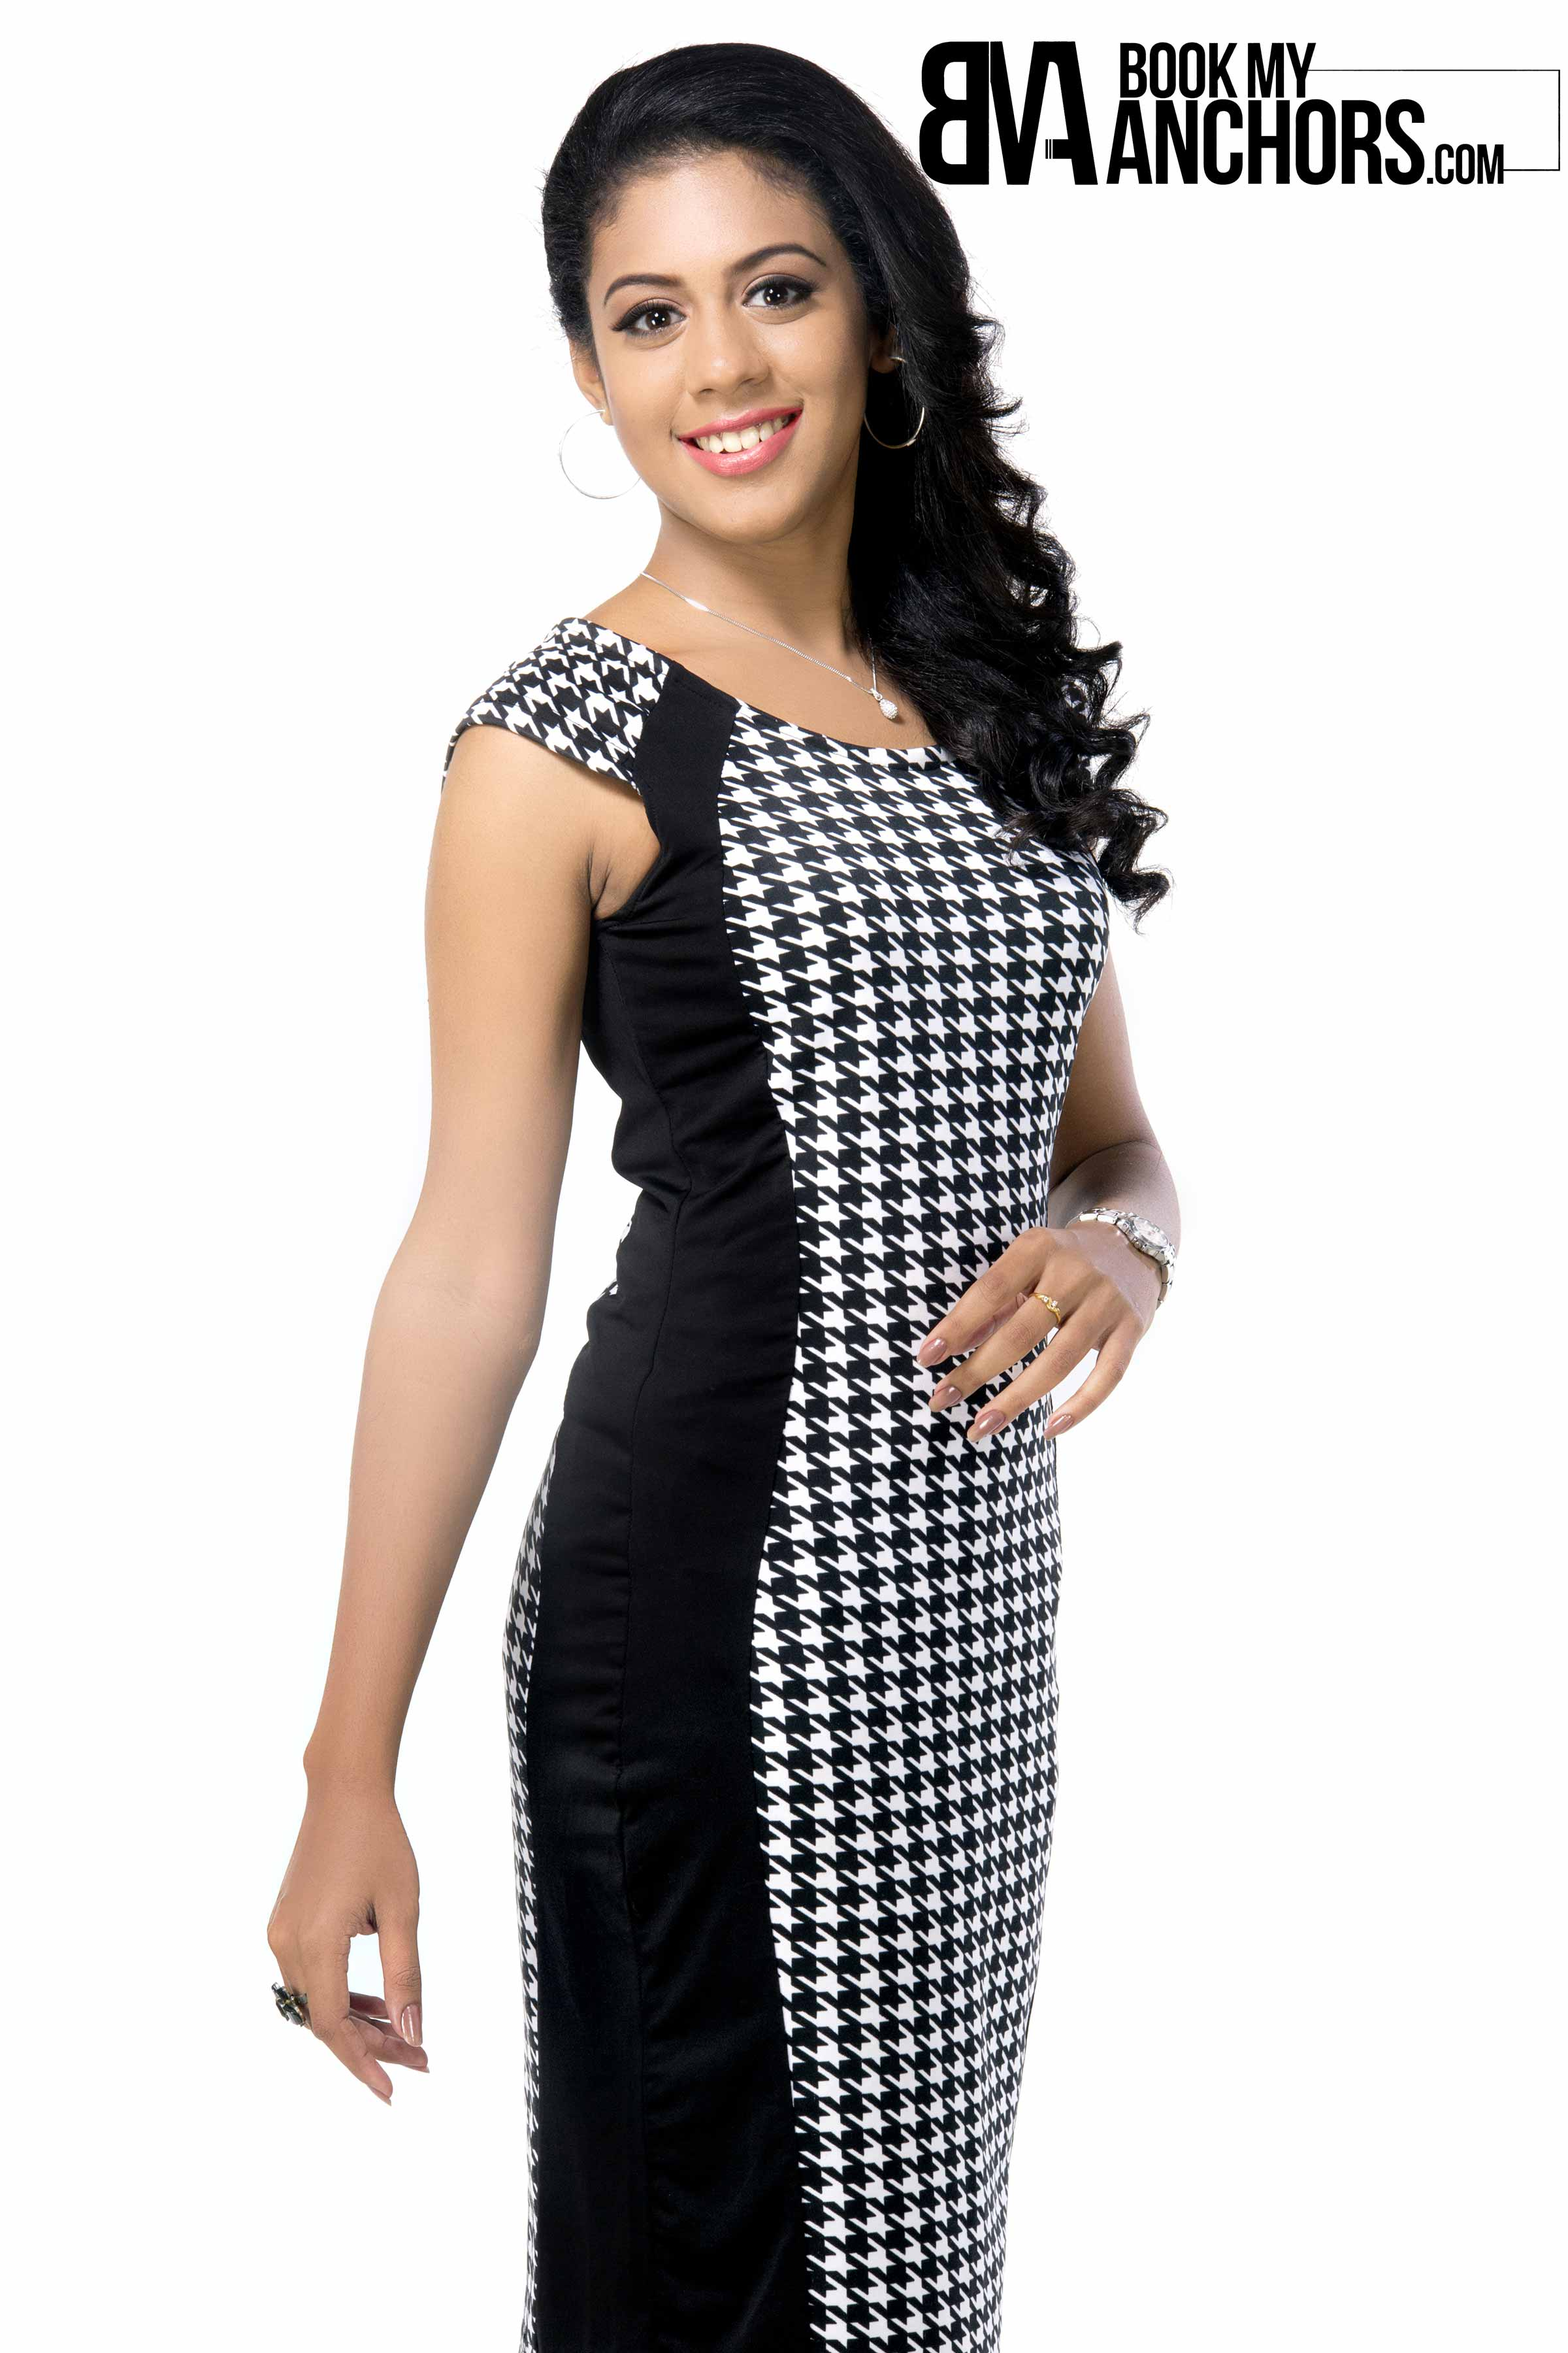
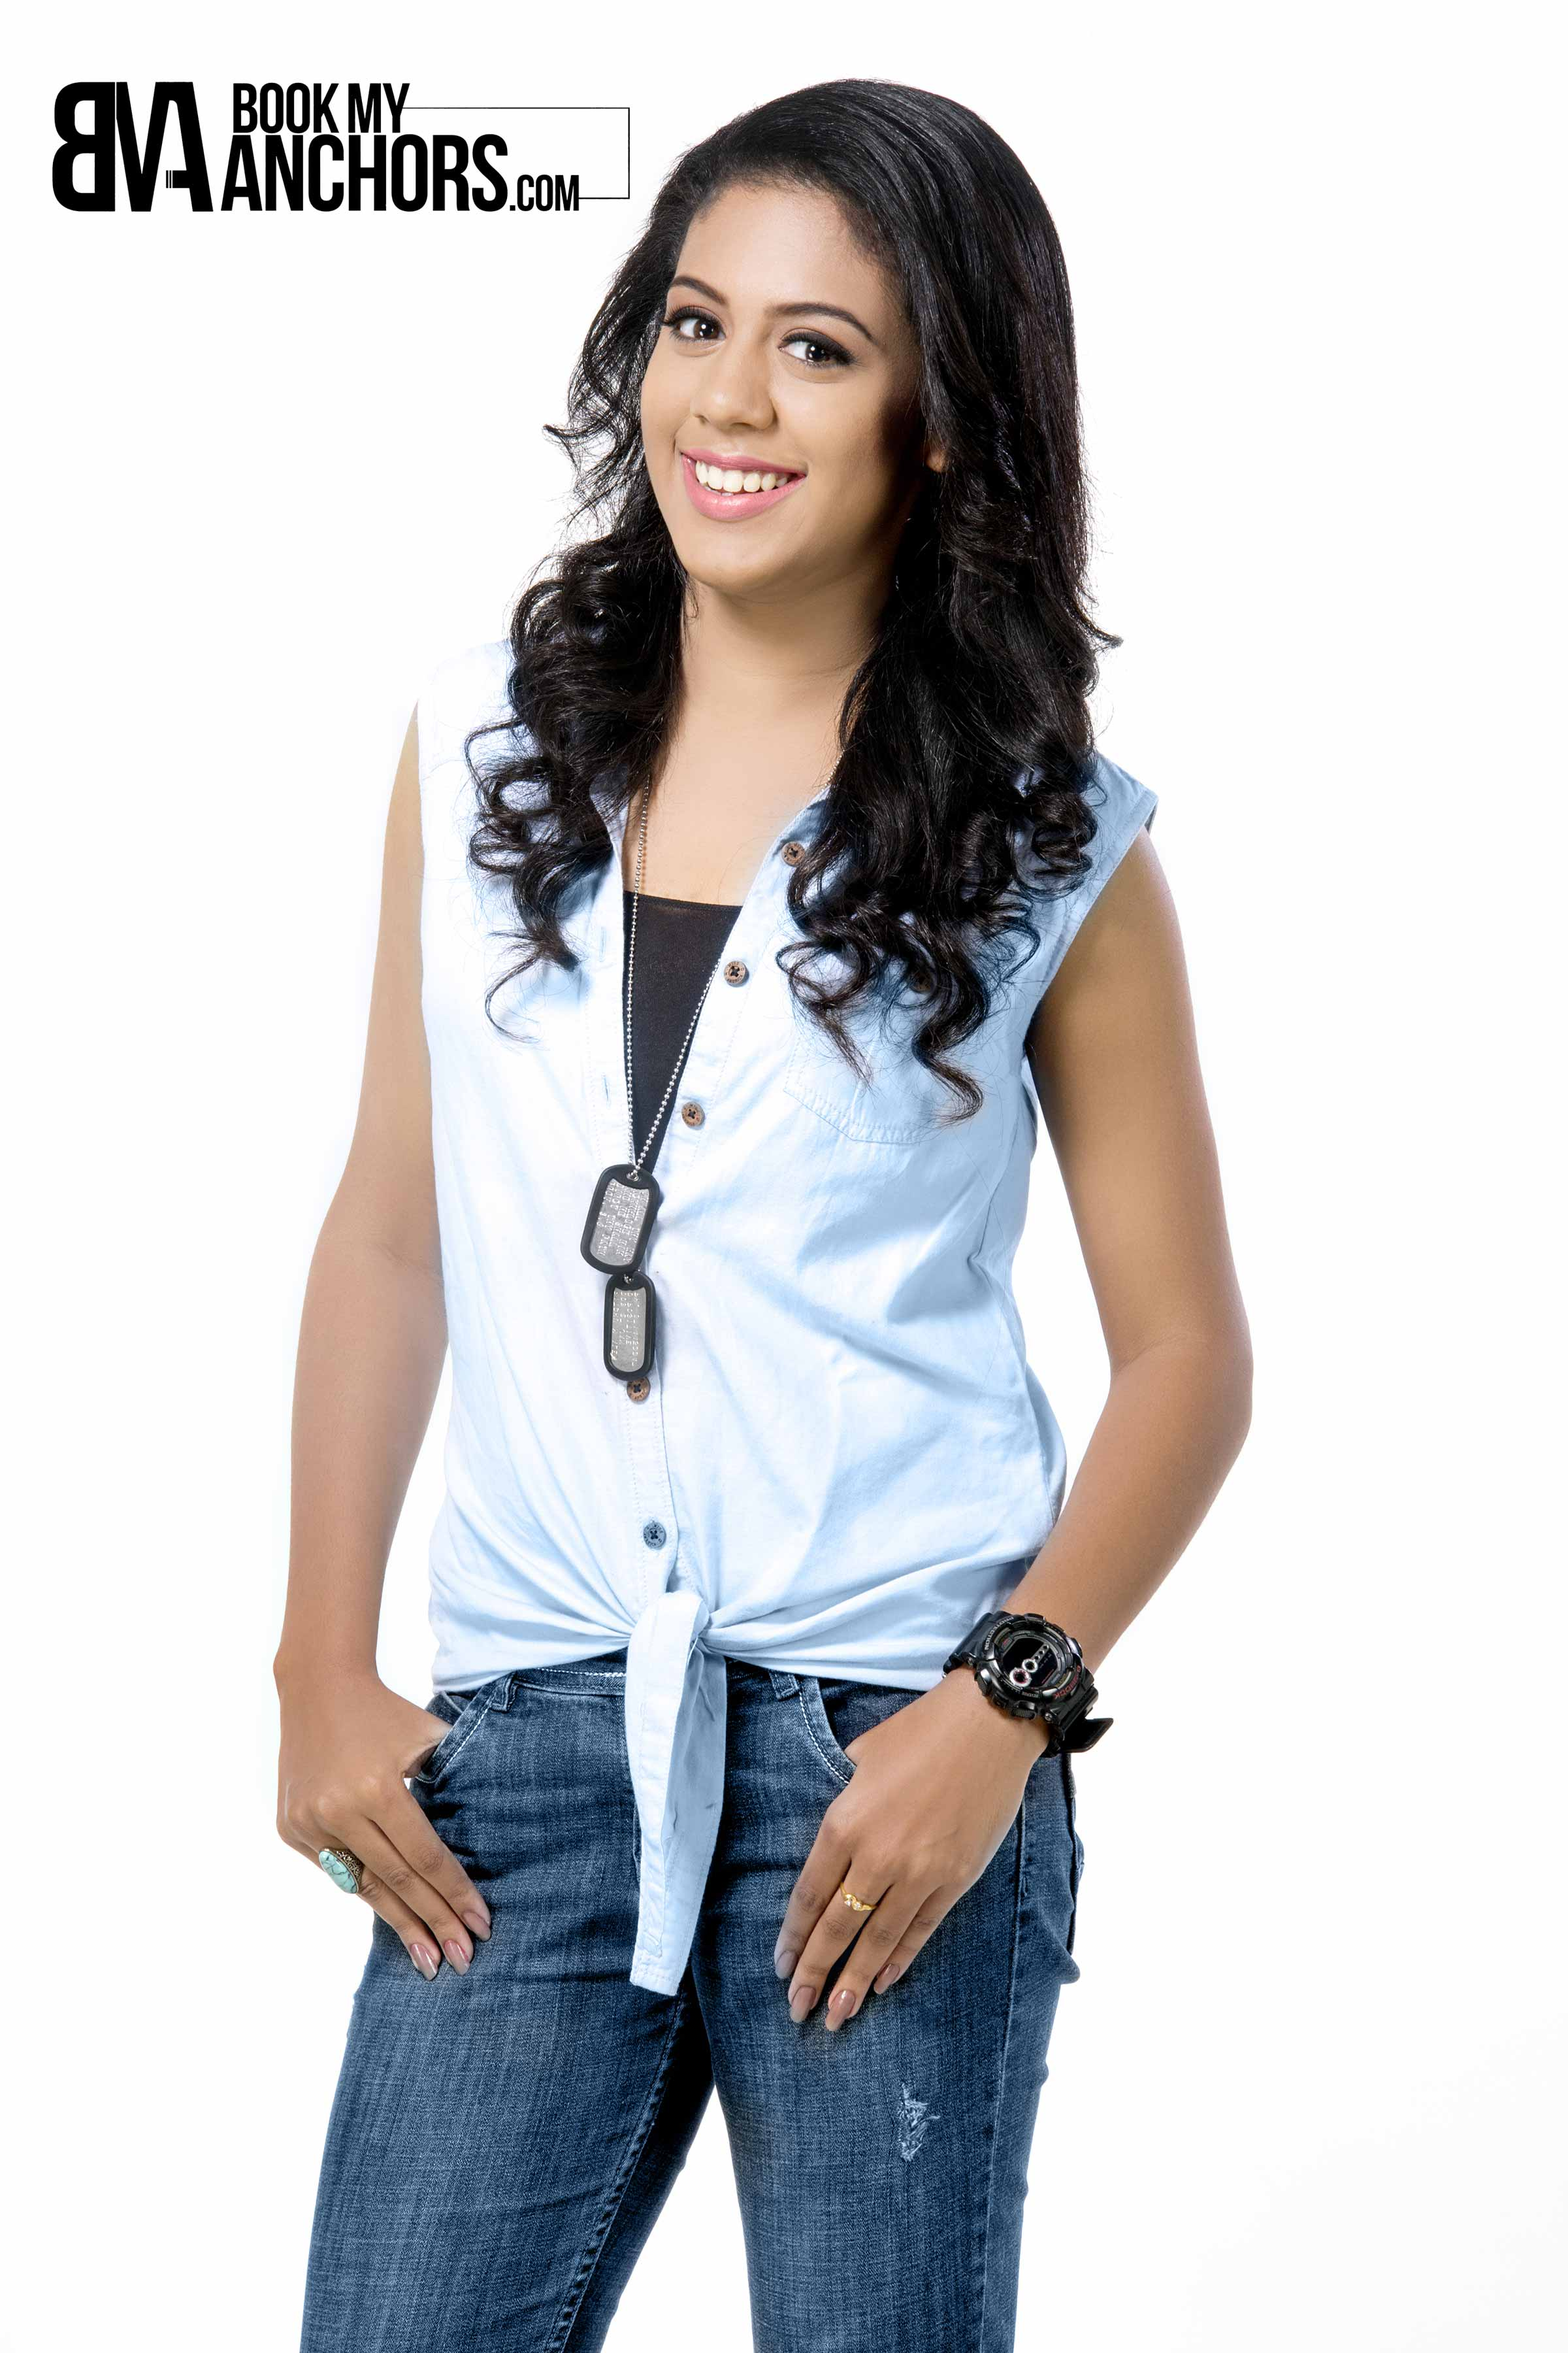
added complete photos

diff --git a/view_profile.php b/view_profile.php
@@ -298,7 +298,10 @@ if(! $retval ) {
 						<span class="main-title">Photos</span>
 						<div class="col-md-12 container-fluid">
 							<?php 
-								for ($i=1; $i<=5; $i++)
+								$directory = str_replace('"', '', $row['image_path']);
+								$files = glob($directory . '*.jpg');
+								$filecount = count( $files ) - 1;
+								for ($i=1; $i<=$filecount; $i++)
 								{
 									$photos = $row['image_path'].$i.'.jpg"';
 							?>
